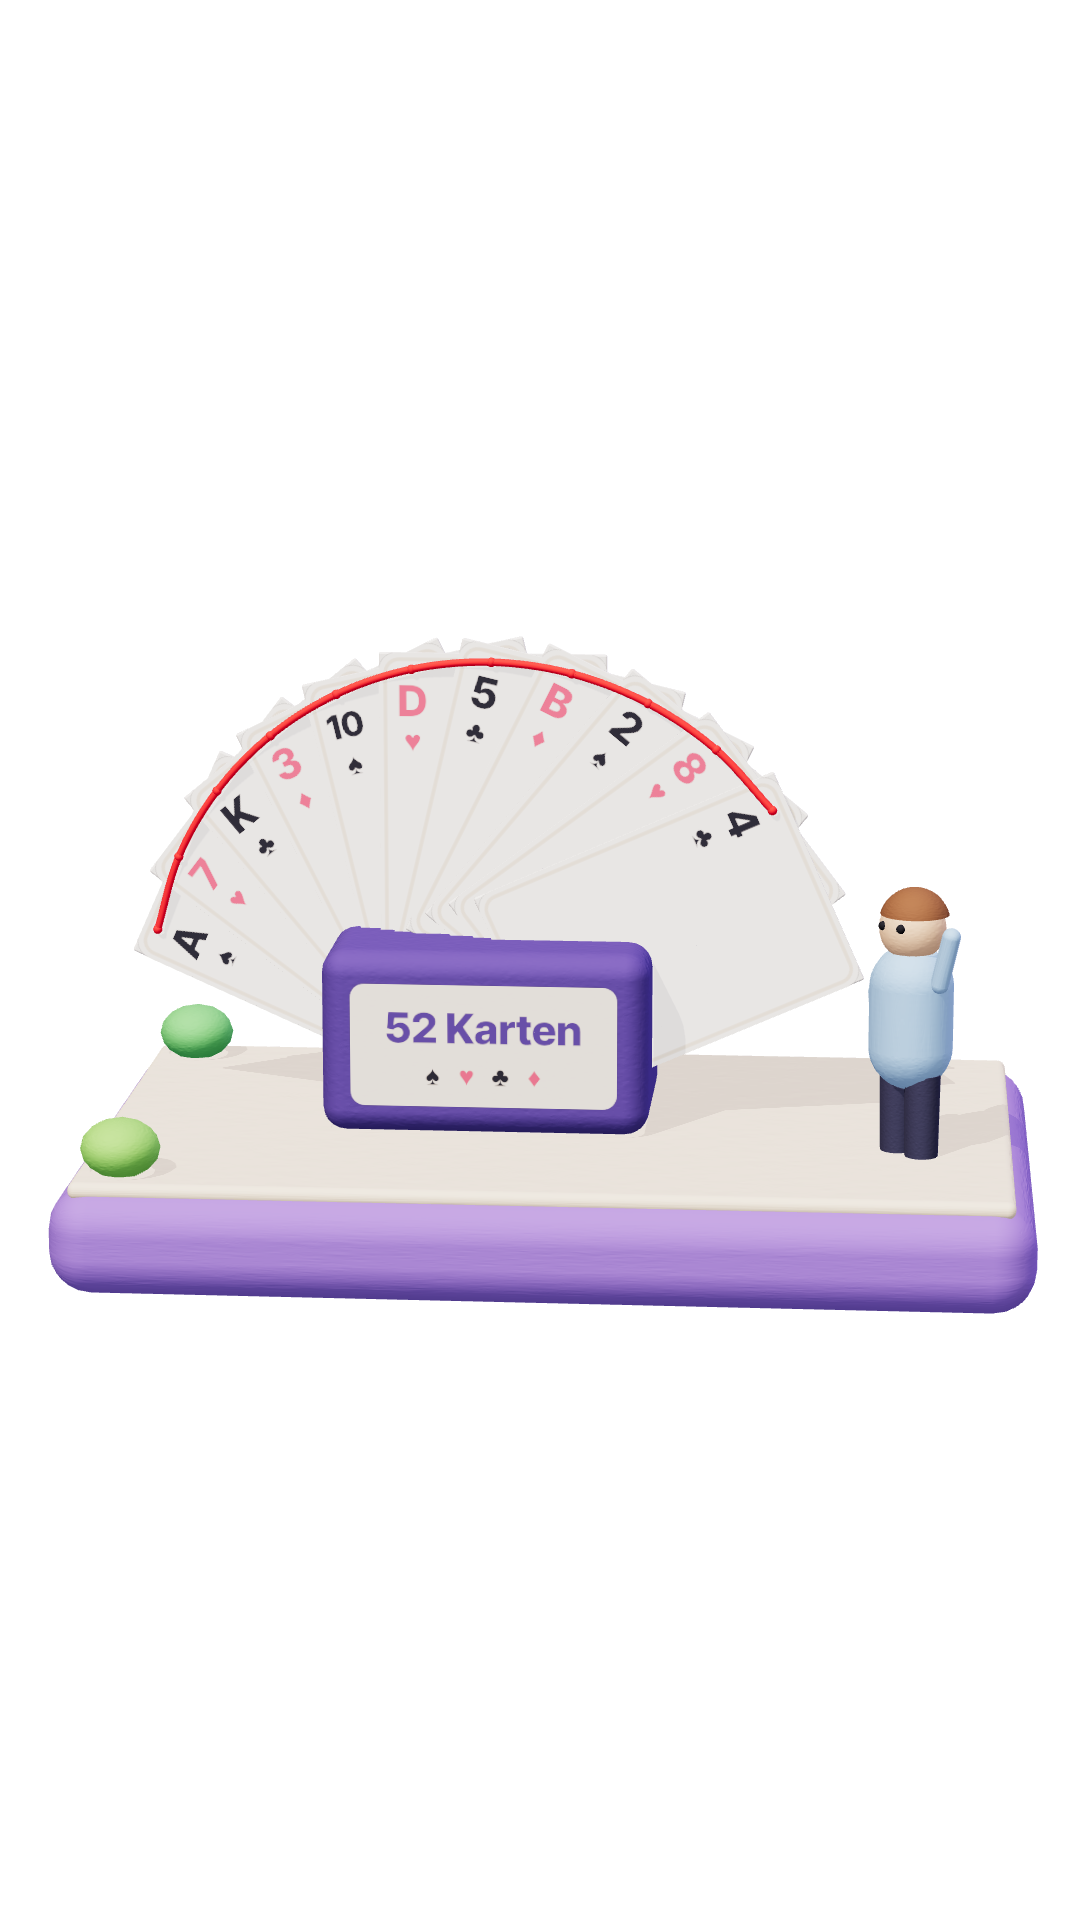
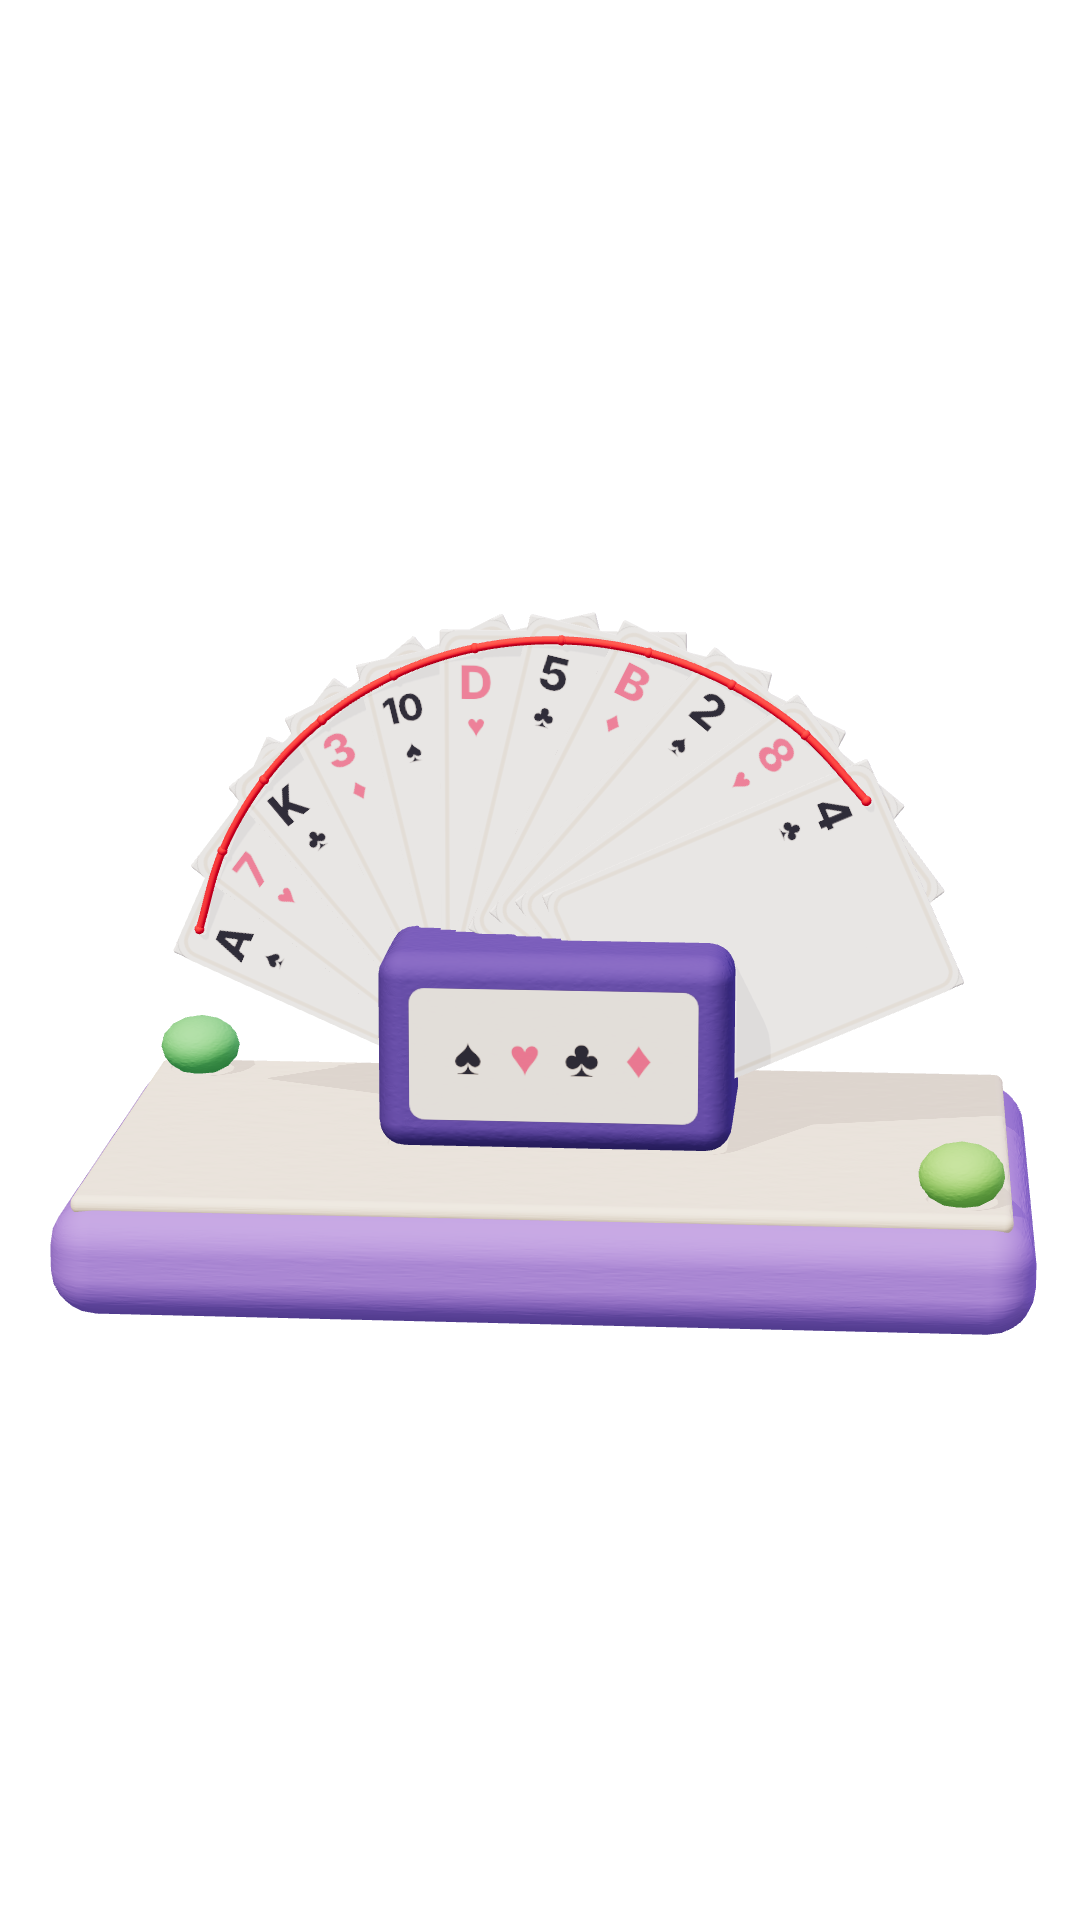
Thumbnail Kartenspiel ohne Knetfigur und ohne Schriftzug
Claude-Session: https://claude.ai/code/session_01JQEQeouhfuAX8JpSfuj7SD

Changed region(s): [[0.0306, 0.3125, 0.9778, 0.7188]]

diff --git a/thumbs/knete_studio.js b/thumbs/knete_studio.js
@@ -570,19 +570,19 @@ MOTIFS.weihnachtsgeld = () => {   // verschneiter Tannenbaum mit Lichterkette, r
   VIEW = {az: -0.25, el: 0.3, fov: 24};
 };
 
-MOTIFS.karten = () => {   // Kartenspiel (überarbeitet 27.11.2026): 11 verschiedene Karten (ohne 6 und 9, die man gedreht verwechseln könnte) fächern sich aus ihrer Schachtel auf, der rote Faden läuft über allen Eckzeichen entlang („die eine Reihenfolge“), daneben eine staunende Figur
-  plinth(2.7, 1.75, [[-1, -1], [-1, 1]]);
+MOTIFS.karten = () => {   // Kartenspiel (überarbeitet 27.11.2026): 11 verschiedene Karten (ohne 6 und 9, die man gedreht verwechseln könnte) fächern sich aus ihrer Schachtel auf, der rote Faden läuft über allen Eckzeichen entlang („die eine Reihenfolge“); ohne Knetfigur und ohne Schriftzug (Wunsch des Nutzers)
+  plinth(2.5, 1.6, [[-1, -1], [1, 1]]);
   const RK = ['A', '7', 'K', '3', '10', 'D', '5', 'B', '2', '8', '4'], SU = ['♠', '♥', '♣', '♦'];
   const cardT = (r, su) => tex(420, 600, (g, w, h) => {const col = (su === '♥' || su === '♦') ? '#e0607e' : '#2b2b38', fr = r === '10' ? 64 : 80;
     g.fillStyle = '#fffdf8'; g.beginPath(); g.roundRect(0, 0, w, h, 34); g.fill(); g.strokeStyle = '#eadfcc'; g.lineWidth = 7; g.beginPath(); g.roundRect(12, 12, w - 24, h - 24, 26); g.stroke();
     T2(g, r, 62, 94, `800 ${fr}px "Inter Tight"`, col); T2(g, su, 62, 166, '700 56px "Inter Tight"', col);
     g.save(); g.translate(w - 62, h - 94); g.rotate(PI); T2(g, r, 0, 0, `800 ${fr}px "Inter Tight"`, col); T2(g, su, 0, -72, '700 56px "Inter Tight"', col); g.restore();});
-  const FX = -0.2, FZ = -0.05, FS = 1.55, N = 11, CWd = 0.42, CHt = 0.6, PIV = 0.2, OFF = 0.36, pts = [], F = grp(S, FX, 0, FZ);
-  // the card box the fan comes out of: front label „52 Karten“, open lid leaning back
+  const FX = 0, FZ = -0.05, FS = 1.55, N = 11, CWd = 0.42, CHt = 0.6, PIV = 0.2, OFF = 0.36, pts = [], F = grp(S, FX, 0, FZ);
+  // the card box the fan comes out of: front label with the four suits (ohne Schriftzug, Wunsch des Nutzers), open lid leaning back
   add(F, rbox(0.6, 0.34, 0.36, 0.045), clay(PAL.deep), 0, 0.17, 0);
   add(F, rbox(0.6, 0.012, 0.17, 0.005), clay(PAL.deep), 0, 0.42, -0.24).rotation.x = -0.55;
   decal(F, 0.5, 0.24, tex(500, 240, (g, w, h) => {g.fillStyle = '#f3ece0'; g.beginPath(); g.roundRect(6, 6, w - 12, h - 12, 26); g.fill();
-    T2(g, '52 Karten', w / 2, 92, '800 78px "Inter Tight"', '#5b4a9a'); ['♠', '♥', '♣', '♦'].forEach((c, i) => T2(g, c, w / 2 + (i - 1.5) * 62, 178, '700 50px "Inter Tight"', (c === '♥' || c === '♦') ? '#e0607e' : '#2b2b38'));}), 0, 0.17, 0.182, {bump: 0.12});
+    ['♠', '♥', '♣', '♦'].forEach((c, i) => T2(g, c, w / 2 + (i - 1.5) * 96, h / 2 + 6, '700 92px "Inter Tight"', (c === '♥' || c === '♦') ? '#e0607e' : '#2b2b38'));}), 0, 0.17, 0.182, {bump: 0.12});
   for (let k = 0; k < N; k++) {const a = (66 - k * 132 / (N - 1)) * PI / 180, z = -0.1 + k * 0.014, C = grp(F, 0, PIV, z); C.rotation.z = a;
     add(C, rbox(CWd, CHt, 0.01, 0.004), clay(0xfffdf8, {bumpScale: 0.6}), 0, OFF, 0);
     decal(C, CWd, CHt, cardT(RK[k], SU[k % 4]), 0, OFF, 0.0062, {bump: 0.1, glow: 0.12});
@@ -590,7 +590,6 @@ MOTIFS.karten = () => {   // Kartenspiel (überarbeitet 27.11.2026): 11 verschie
   F.scale.setScalar(FS);
   {const m = redClay(); add(S, new THREE.TubeGeometry(new THREE.CatmullRomCurve3(pts, false, 'centripetal'), 200, 0.0105, 10, false), m);
     pts.forEach(p => add(S, new THREE.SphereGeometry(0.0135, 12, 10), m, p.x, p.y, p.z));}
-  person(S, 1.0, 0.3, {body: PAL.sky, hair: 0x8a5a3a, ry: -0.75, s: 1.3, up: [1]});
   VIEW = {az: 0.08, el: 0.22, fov: 24};
 };
 
